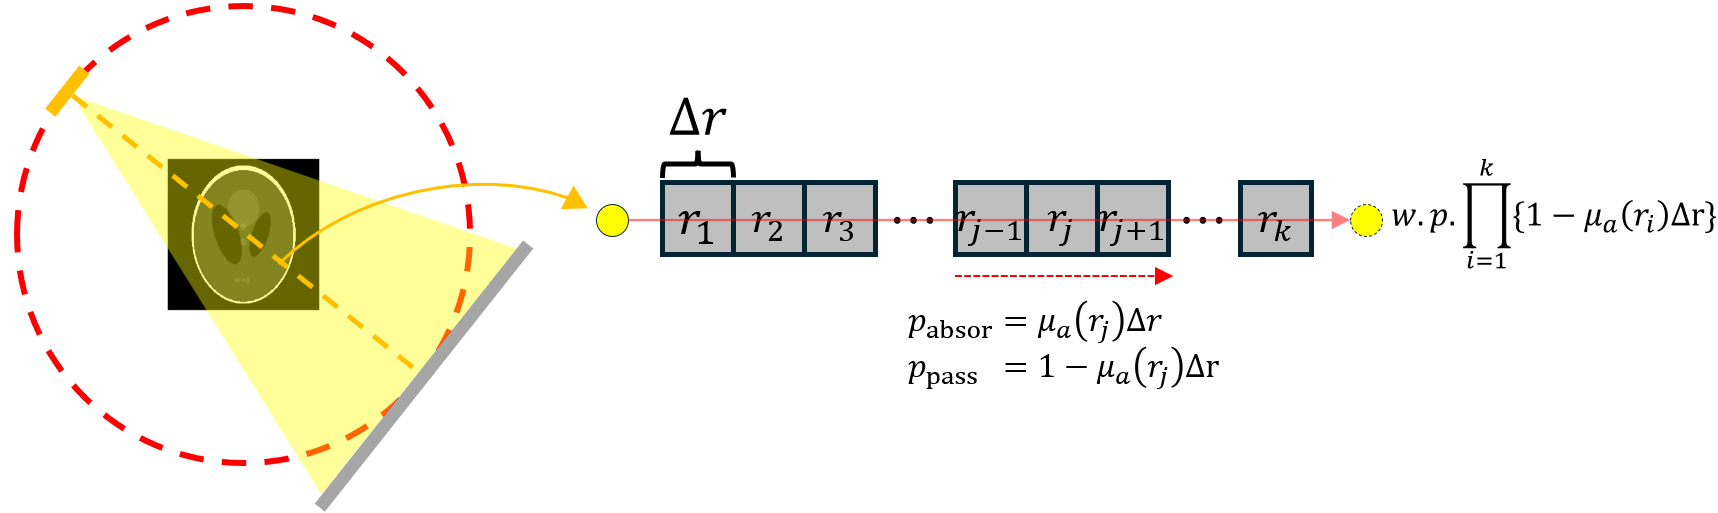
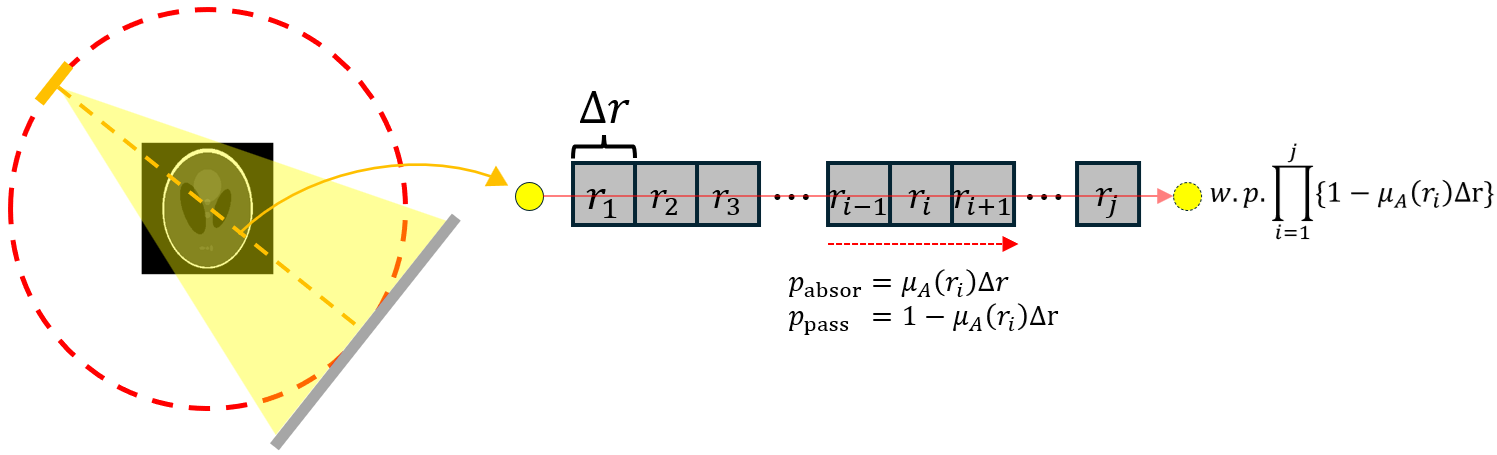
CT_4 revision

diff --git a/_posts/2025-06-30-CT_4.md b/_posts/2025-06-30-CT_4.md
@@ -24,6 +24,7 @@ $\bullet$ Computed Tomography: From Photon Statistics to Modern Cone-Beam CT
 {: .notice--success}
 
 # 0.Introduction
+{% include start-box.html class="math-box"%}
 We will discuss the probability of detection (Mathematical modeling of photon-detection).
 More specifically, we will focus on the probability that a photon, from the moment it is generated by the X-ray source, passes through an object, and is finally detected.
 
@@ -31,7 +32,7 @@ More specifically, we will focus on the probability that a photon, from the mome
 
 As shown in the overview diagram above, which illustrates the entire CT scan and reconstruction workflow, this corresponds to the process indicated by the three orange circles in the first figure.
 
-It is important to note that for this discussion, **we will assume the X-ray source is monochromatic**, meaning it emits photons of a single energy level.
+It is important to note that for this discussion, **we will assume the X-ray source is monoenergetic**, meaning it emits photons of a single energy level.
 Consequently, the LAC, which was previously expressed as a function of both the spatial parameter, r and energy E, $\mu(r,E)$, now simplifies to a function dependent only on the spatial parameter, r:
 
 <div class="math-box">
@@ -39,8 +40,10 @@ $$
 \mu(r, E) \rightarrow \mu(r)
 $$
 </div>
+{% include end-box.html %}
 
 # 1.Mathematical modeling for monochromatic X-ray
+{% include start-box.html class="math-box"%}
 
 ## 1-1) Probability for X-ray photon generation
 {% include start-side-by-side.html
@@ -48,8 +51,7 @@ $$
   image_alt=""
   image_width="30%"
 %}
-Let's mathematically model the generation of photons from an X-ray source. (Monochromatic!)<br>
-This corresponds to the process occurring in the area marked by the orange circle in the left figure.<br><br>
+Let's mathematically model the generation of photons from an X-ray source (Monoenergetic!). This corresponds to the process occurring in the area marked by the orange circle in the left figure.
 {% include end-side-by-side.html %}
 
 <div class="math-box" markdown="1">
@@ -57,11 +59,14 @@ This corresponds to the process occurring in the area marked by the orange circl
 
 2. Let the random variable $X$ be the number of successful X-ray photon generations from these $N$ electrons.
 
-3. Under these conditions, the probability of generating exactly $n$ photons from $N$ electrons, $P(X = n)$, follows a binomial distribution:<br><center>$$P(X = n) = \binom{N}{n} p_{1}^n (1 - p_1)^{N - n} \tag{1.1}$$</center>
+3. Under these conditions, the probability of generating exactly $n$ photons from $N$ electrons, $P(X = n)$, follows a binomial distribution:
 
-4. In a realistic scenario, the number of electrons $N$ is extremely large ($N \rightarrow \infty$) while the probability of success $p_1$ is very small ($p_1 \rightarrow 0$). <br>If their product, the expected value $E(X)=N\cdot p_1=N_0$, remains constant, this binomial distribution can be approximated by a Poisson distribution:<br>
-<center>$$P(X = n) = \lim\limits_{N \to \infty, p_1 \to 0} \binom{N}{n} p_{1}^n (1 - p_{1})^{N - n} = \frac{e^{-N_0} N_0^n}{n!} \tag{1.2}$$</center>
-<br>
+    $$P(X = n) = \binom{N}{n} p_{1}^n (1 - p_1)^{N - n} \tag{1.1}$$
+
+4. In a realistic scenario, the number of electrons $N$ is extremely large ($N \rightarrow \infty$) while the probability of success $p_1$ is very small ($p_1 \rightarrow 0$). If their product, the expected number of photons, $E(X)=N\cdot p_1=N_0$, remains constant, this binomial distribution can be approximated by a Poisson distribution:
+
+    $$P(X = n) = \lim\limits_{N \to \infty, p_1 \to 0} \binom{N}{n} p_{1}^n (1 - p_{1})^{N - n} = \frac{e^{-N_0} N_0^n}{n!} \tag{1.2}$$
+
 Here, $N_0$ is the expected average number of X-ray photons to be generated (a value often provided in reference data or by the manufacturer).
 </div>
 
@@ -71,30 +76,62 @@ Here, $N_0$ is the expected average number of X-ray photons to be generated (a v
   image_alt=""
   image_width="30%"
 %}
-Let's create a mathematical model for the probability of an X-ray photon passing through an object.<br><br>
+Let's create a mathematical model for the probability of an X-ray photon passing through an object.
 {% include end-side-by-side.html %}
 
 {% include start-box.html class="math-box" %}
 1. Given that $n$ photons are generated at the source, our goal is to find the probability that $M$ of them will successfully transmit through the object. To do this, we will first derive the probability for a single photon and then extend it to $M$ photons.
 
-2. As shown in the figure below, let's consider a single, continuous object as a series of many small, discrete objects $(r_1, r_2, \dots, r_j)$. The length of each small object is denoted by $\Delta r$. <img src="../images/2025-06-30-CT_4/image-20250703202028737.png" style="width: 80%; height: auto;">{: .align-center} For an infinitesimally small segment $\Delta r$, the probability that a single photon is absorbed as it travels from segment $i-1$ to $i$ is approximately $\mu_a(r_i)\Delta r$*. Therefore, the probability that the photon is not absorbed and successfully passes from segment $i-1$ to $i$ is approximately $1-\mu_a (r_i) \Delta r$.<br> <center>$$\begin{array}{l} p_{\text{absor}} = \mu_a(r_i)\Delta r \\ p_{\text{pass}}=1-\mu_a(r_i)\Delta r \end{array} \tag{1.3}$$</center>
+2. As shown in the figure below, let's consider a single, continuous object as a series of many small, discrete objects $(r_1, r_2, \dots, r_j)$. The length of each small object is denoted by $\Delta r$. <img src="../images/2025-06-30-CT_4/image-20250703202028737.png" style="width: 80%; height: auto;">{: .align-center} For an infinitesimally small segment $\Delta r$, the probability that a single photon is absorbed as it travels $i$-th segment is approximately $\mu_A(r_i)\Delta r$. Therefore, the probability that the photon is not absorbed and successfully passes $i$-th segment is approximately $1-\mu_A (r_i) \Delta r$.
 
-3. Consequently, the probability that a photon passes through all $j$ segments without being absorbed is the product of the individual probabilities:<br> <center>$$\text{Probability for a photon will transmit the object, p}_2 = \prod_{i=1}^{j} \left\{ 1 - \mu_a(\mathbf{r}_i) \Delta \mathbf{r} \right\} \tag{1.4}$$</center>
+    $$\begin{array}{l} p_{\text{absor}} = \mu_A(r_i)\Delta r \\ p_{\text{pass}}=1-\mu_A(r_i)\Delta r \end{array} \tag{1.3}$$
 
-4. Now, we can simplify this expression by making the object segments infinitesimally small and infinitely numerous ($j \rightarrow \infty, \Delta r \rightarrow 0$). <br> The probability $p_2$ that a photon transmits through the object becomes: <br> <center>$$\begin{split} p_2 &= \lim\limits_{j \to \infty, \Delta \mathbf{r} \to 0} \prod_{i=1}^{j} \left\{ 1 -\mu_a(\mathbf{r}_i) \Delta \mathbf{r} \right\} = \lim\limits_{j \to \infty, \Delta \mathbf{r} \to 0} e^{\left\{ \ln \left( \prod_{i=1}^{j} \left\{ 1 - \mu_a(\mathbf{r}_i) \Delta \mathbf{r} \right\} \right) \right\}} \\ \\
-&= \lim\limits_{j \to \infty, \Delta \mathbf{r} \to 0} e^{\left\{ \sum\limits_{i=1}^{j} \ln \left( 1 - \mu_a(\mathbf{r}_i) \Delta \mathbf{r} \right) \right\}} \\ \\ &\bigg\downarrow \small{\left(\lim\limits_{x \to 0}\frac{\ln(1+x)}{x} = 1 \rightarrow \lim\limits_{x \to 0} \ln(1+x) = x \right) }\\ \\
-& = \lim\limits_{j \to \infty, \Delta \mathbf{r} \to 0} e^{\left\{ \sum_{i=1}^{j} \left( -\mu_a(\mathbf{r}_i) \Delta \mathbf{r} \right) \right\}} = e^{-\int \mu_a(\mathbf{r}) \, dr }\end{split} \tag{1.5}$$</center> This equation is the **Beer-Lambert law**, describing the intensity attenuation of a radiation beam traversing a macroscopically homogeneous medium.
+3. Consequently, the probability that a photon passes through all $j$ segments without being absorbed is the product of the individual probabilities:<br> <center>$$\text{Probability for a photon will transmit the object, p}_2 = \prod_{i=1}^{j} \left\{ 1 - \mu_A(\mathbf{r}_i) \Delta \mathbf{r} \right\} \tag{1.4}$$</center>
 
-5. Then, let's consider the number of photons that are pass the object. Let $Y$ be the random variable for the number of transmitted photons, given that $X=n$ photons were incident on the object. Since each of the $n$ photons has an independent transmission probability of $p_2$, the number of successfully transmitted photons $Y$ follows a binomial distribution, conditioned on $X=n$:<br><center>$$\small{P(Y=M\mid X=n)=\binom{n}{M}p_2^M (1-p_2)^{n-M}, \quad \text{for } M \le n} \tag{1.6}$$</center>
+4. Now, we can simplify this expression by making the object segments infinitesimally small and infinitely numerous ($j \rightarrow \infty, \Delta r \rightarrow 0$). <br> The probability $p_2$ that a photon transmits through the object becomes: 
 
- {% include start-box.html class="math-box-inner" font_size="0.8em" %}
- *Why $p_{\text{absor}} \approx \mu_a(r_j)\Delta r$?
- 1. We assume that when an X-ray photon travels through a material, its probability of interacting (being absorbed or scattered) within an infinitesimally small distance $dx$ is proportional to that length. We define this proportionality constant as the LAC, $\mu_a(x)$. <br><center>$P_{(\text{interaction in infinitesimal length $dx$})}=\mu_a(x) dx$</center><center>$\small{\text{(Assume that the probabilities of interaction in any two non-overlapping intervals are independent.)}}$</center>
+    $$\begin{split} p_2 &= \lim\limits_{j \to \infty, \Delta \mathbf{r} \to 0} \prod_{i=1}^{j} \left\{ 1 -\mu_A(\mathbf{r}_i) \Delta \mathbf{r} \right\} = \lim\limits_{j \to \infty, \Delta \mathbf{r} \to 0} e^{\left\{ \ln \left( \prod\limits_{i=1}^{j} \left\{ 1 - \mu_A(\mathbf{r}_i) \Delta \mathbf{r} \right\} \right) \right\}} \\ \\
+    &= \lim\limits_{j \to \infty, \Delta \mathbf{r} \to 0} e^{\left\{ \sum\limits_{i=1}^{j} \ln \left( 1 - \mu_A(\mathbf{r}_i) \Delta \mathbf{r} \right) \right\}} \\ \\ &\bigg\downarrow \small{\left(\lim\limits_{x \to 0}\frac{\ln(1+x)}{x} = 1 \rightarrow \lim\limits_{x \to 0} \ln(1+x) = x \right) }\\ \\
+    & = \lim\limits_{j \to \infty, \Delta \mathbf{r} \to 0} e^{\left\{ \sum\limits_{i=1}^{j} \left( -\mu_A(\mathbf{r}_i) \Delta \mathbf{r} \right) \right\}} = e^{-\int \mu_A(\mathbf{r}) \, dr }\end{split} \tag{1.5}$$
 
- 2. Let $P(x)$ be the probability that a photon reaches position $x$ without interacting. Then, the probability of surviving up to position $x+dx$, denoted as $P(x+dx)$, can be seen as two consecutive events:<br><center>$$\begin{array}{l}1)\text{Surviving up to position } x \text{(with probability: $P(x)$)} \\ 2)\text{Then surviving the subsequent small interval } [x+dx] \text{ with probability: $1-\mu_a(x)dx$} \\ \\ \rightarrow P(x+dx) = P(x)\cdot (1-\mu_a(x)dx) \\ \rightarrow P(x+dx) - P(x) = -P(x) \mu_a(x) dx \\ \rightarrow \frac{P(x+dx) - P(x)}{dx} = -P(x) \mu_a(x) \\ \xrightarrow[]{dx \to 0} \frac{dP(x)}{dx} = - \mu_a(x) P(x) \\ \end{array}$$</center>
+    This equation is the **Beer-Lambert law**, describing the intensity attenuation of a radiation beam traversing a macroscopically homogeneous medium.
 
- 3. This differential equation can be solved using the method of separation of variables.<br><center>$$\frac{1}{P(x)} dP(x) = - \mu_a(x) dx$$</center>Integrate both sides (from the starting point 0 to a distance L):<center>$$\begin{align} \int_{P(0)}^{P(L)} \frac{1}{P} dP &= \int_0^L -\mu_a(x) dx \\ [\ln P]_ {P(0)}^{P(L)} &= -\int_0^L \mu_a(x) dx \\ \ln P(L) - \ln P(0) &= -\int_0^L \mu_a(x) dx \end{align}$$</center>Before the photon enters the material (at $x=0$), its survival probability is 1. $\rightarrow P(0)=1$
- Thus, the survival probability $P(L)$ after traveling a distance L is:<br><center>$$\begin{align}\ln P(L) &= -\int_0^L \mu_a(x) dx \\ P(L) &= e^{-\int_0^L \mu_a(x) dx} \end{align}$$</center>If the material is homogeneous (i.e, $\mu_a(x)$ is a constant, $\mu_a$) and the distance is $\Delta r$, this equation simplifies to: <center>$$\begin{align} P_{\text{pass}}(\Delta r) &= e^{-\mu_a \Delta r} \\ P_{\text{absor}}(\Delta r) &= 1 - e^{-\mu_a \Delta r} \end{align}$$</center>When $\Delta r$ becomes infinitesimal, this equation becomes ($$ x \approx 0 \to e^{-x} \approx 1 -x $$):<be><center>$$\begin{align} P_{\text{pass}}(\Delta r) &\approx 1 - \mu_a \Delta r \\ P_{\text{absor}}(\Delta r) &\approx \mu_a \Delta r \end{align}$$</center> 
+5. Then, let's consider the number of photons that are pass the object. Let $Y$ be the random variable for the number of transmitted photons, given that $X=n$ photons were incident on the object. Since each of the $n$ photons has an independent transmission probability of $p_2$, the number of successfully transmitted photons $Y$ follows a binomial distribution, conditioned on $X=n$:
+
+    $$\small{P(Y=M\mid X=n)=\binom{n}{M}p_2^M (1-p_2)^{n-M}, \quad \text{for } M \le n} \tag{1.6}$$
+
+{% include start-box.html class="math-box-inner" font_size="0.8em"%}
+ *Why $p_{\text{absor}} \approx \mu_A(r_j)\Delta r$?
+ 1. We assume that when an X-ray photon travels through a material, its probability of interacting (being absorbed or scattered) within an infinitesimally small distance $dx$ is proportional to that length. We define this proportionality constant as the LAC, $\mu_A(x)$. 
+ 
+    $$P_{(\text{interaction in infinitesimal length $dx$})}=\mu_A(x) dx$$ 
+    
+    $$\small{\text{(Assume that the probabilities of interaction in any two non-overlapping intervals are independent.)}}$$
+
+ 2. Let $P(x)$ be the probability that a photon reaches position $x$ without interacting. Then, the probability of surviving up to position $x+dx$, denoted as $P(x+dx)$, can be seen as two consecutive events:
+ 
+    $$\begin{array}{l}1)\text{Surviving up to position } x \text{(with probability: $P(x)$)} \\ \\ 2)\text{Then surviving the subsequent small interval } [x+dx] \text{ with probability: $1-\mu_A(x)dx$} \\ \\ \quad \rightarrow P(x+dx) = P(x)\cdot (1-\mu_A(x)dx) \\ \quad \rightarrow P(x+dx) - P(x) = -P(x) \mu_A(x) dx \\ \quad \quad \rightarrow \frac{P(x+dx) - P(x)}{dx} = -P(x) \mu_A(x) \\ \quad \quad \quad \xrightarrow[]{dx \to 0} \frac{dP(x)}{dx} = - P(x) \mu_A(x) \\ \end{array}$$
+
+ 3. This differential equation can be solved using the method of separation of variables.
+ 
+    $$\frac{1}{P(x)} dP(x) = - \mu_A(x) dx$$
+    
+    Integrate both sides (from the starting point $x$=0 to a distance $x$=L):
+    
+    $$\begin{align} \int_{0}^{L} \left( \frac{1}{P(x)} \frac{dP(x)}{dx} \right) dx &= \int_{0}^{L} -\mu_A(x) dx \\ &\bigg\downarrow \text{Let $P=P(x)$} \\ \int_{P(0)}^{P(L)} \frac{1}{P} dP &= \int_0^L -\mu_A(x) dx \\ [\ln P]_ {P(0)}^{P(L)} &= -\int_0^L \mu_A(x) dx \\ \ln P(L) - \ln P(0) &= -\int_0^L \mu_A(x) dx \end{align}$$
+    
+    Before the photon enters the material (at $x=0$), its survival probability is 1 ($P(0)=1$). Thus, the survival probability $P(L)$ after traveling a distance L is:
+    
+    $$\begin{align}\ln P(L) &= -\int_0^L \mu_A(x) dx \\ P(L) &= e^{-\int_0^L \mu_A(x) dx} \end{align}$$
+    
+    If the material is homogeneous (i.e, $\mu_A(x)$ is a constant, $\mu_A$) and the distance is $\Delta r$, this equation simplifies to:
+    
+    $$\begin{align} P_{\text{pass}}(\Delta r) &= e^{-\mu_A \Delta r} \\ P_{\text{absor}}(\Delta r) &= 1 - e^{-\mu_A \Delta r} \end{align}$$
+    
+    When $\Delta r$ becomes infinitesimal, this equation becomes ($$ x \approx 0 \to e^{-x} \approx 1 -x $$):
+    
+    $$\begin{align} P_{\text{pass}}(\Delta r) &\approx 1 - \mu_A \Delta r \\ P_{\text{absor}}(\Delta r) &\approx \mu_A \Delta r \end{align}$$
+
     {% include end-box.html %}
   {% include end-box.html %}
 
@@ -104,42 +141,82 @@ Let's create a mathematical model for the probability of an X-ray photon passing
   image_alt=""
   image_width="30%"
 %}
-Now, let's model what happens when the photons reach the detector.<br><br>
+Now, let's model what happens when the photons reach the detector.
 {% include end-side-by-side.html %}
 
 {% include start-box.html class="math-box" %}
-1. The photons that have successfully passed through the object are the ones that are incident on the detector. Therefore, the random variable for the number of photons arriving at the detector is the same as the random variable for the number of transmitted photons, which we have already defined as $Y$. <br>(We assume no photons are lost between the object and the detector.)
+1. The photons that have successfully passed through the object are the ones that are incident on the detector. Therefore, the random variable for the number of photons arriving at the detector is the same as the random variable for the number of transmitted photons, which we have already defined as $Y=M$. (We assume no photons are lost between the object and the detector.)
 
 2. Each of these $M$ incident photons is then registered by the detector with a certain probability, $q$, known as the detector's quantum efficiency. This efficiency accounts for the fact that not every photon hitting the detector will produce a measurable electronic signal.
 
-3. Let $Z$ be the random variable for the number of photons finally registered by the detector. Given that $Y=M$ photons arrive at the detector, the detection of each photon is an independent Bernoulli trial with success probability $q$. Thus, the number of registered photons, $Z$, follows a binomial distribution, conditioned on the number of arriving photons, $M$:<br><center>$$\small{P(Z=m\mid Y=M)=\binom{M}{m}q^m (1-q)^{M-m}, \quad \text{for $m \le M$}} \tag{1.7}$$</center>
+3. Let $Z$ be the random variable for the number of photons finally registered by the detector. Given that $Y=M$ photons arrive at the detector, the detection of each photon is an independent Bernoulli trial with success probability $q$. Thus, the number of registered photons, $Z$, follows a binomial distribution, conditioned on the number of arriving photons, $M$:
 
-4. To find the unconditional probability distribution of the detected photons, $P(Z=m)$, we need to consider the entire chain of events. A remarkable property of cascaded Poisson and binomial processes is that the final distribution is also a Poisson distribution. The expected number of detected photons, $E[Z]$, can be found using the law of total expectation:<br><center>$$\small{E[Z]=E_Y [E_Z [Z\mid Y]] = E_Y[Y \cdot q] = q \cdot E_Y[Y]} \tag{1.8}$$</center>Similarly, <br><center>$$\small{E[Y] = E_X[E_Y [Y\mid X]] = E_X[X \cdot p_2]=p_2 \cdot E_X[X] = p_2 \cdot N_0} \tag{1.9}$$</center>Combining these, the expected number of detected photons is:<br><center>$$\small{\lambda_{det} = E[Z]=N_0 \cdot p_2 \cdot q} \tag{1.10}$$</center>Since the initial process is Poisson and it undergoes two independent binomial thinnings (transmission and detection), the resulting random variable $Z$ also follows a Poisson distribution with the new mean $\lambda_{det}$. Therefore, the final probability of detecting exactly $m$ photons is given by:<br><center>$$\small{P(Z=m)=\frac{e^{-N_0 p_2 q}(N_0 p_2 q)^m}{m!}, \quad \text{where  } \begin{array}{l} N_0: \text{the mean of incident photons} \\ p_2 = e^{-\int \mu_a(r)dr} \text{: the transmission probability} \\ q: \text{the detector quantum efficiency} \end{array}} \tag{1.11}$$</center>
+    $$\small{P(Z=m\mid Y=M)=\binom{M}{m}q^m (1-q)^{M-m}, \quad \text{for $m \le M$}} \tag{1.7}$$
 
- {% include start-box.html class="math-box-inner" font_size="0.8em" %}
- *$E[Z]=E_Y [E_Z [Z \mid Y]] = E_Y[Y \cdot q] = q \cdot E_Y[Y]$
- 1. $E_Z[Z \mid Y]$: This term asks, "Given that the value of $Y$ is a specific value $M$ (i.e., $Y=M$), what is the conditional expectation of $Z$?" <br>As shown before, $P(Z=m\mid Y=M)$ follows a binomial distribution with parameters $(M, q)$. <br>The expected value of this distribution is $M \cdot q$.<br><center>$$\rightarrow E_Z[Z \mid Y=M] = M \cdot q$$</center>
+4. To find the unconditional probability distribution of the detected photons, $P(Z=m)$, we need to consider the entire chain of events. A remarkable property of cascaded Poisson and binomial processes is that the final distribution is also a Poisson distribution. The expected number of detected photons, $E[Z]$, can be found using the law of total expectation:
 
- 2. If we write this for the general random variable $Y$, this expectation changes depending on the value of $Y$. <br> Thus, $E_Z[Z \mid Y] = Y \cdot q$ becomes a new random variable itself, which is a function of $Y$.
+    $$\small{E[Z]=E [E [Z\mid Y]] = E[Y \cdot q] = q \cdot E[Y]} \tag{1.8}$$
 
- 3. $E_Y[E_Z[Z \mid Y]]$: It means taking the expectation of the new random variable we just found, $Y \cdot q$, with respect to the probability distribution of $Y$.<br><center>$$E_Y [Y \cdot q] = q \cdot E_Y[Y]$$</center>
+    Similarly, 
 
- 4. As a result, <br><center>$$E[Z]=E_Y [E_Z [Z \mid Y]] = E_Y[Y \cdot q] = q \cdot E_Y[Y]$$</center>
- {% include end-box.html %}
+    $$\small{E[Y] = E[E [Y\mid X]] = E[X \cdot p_2]=p_2 \cdot E[X] = p_2 \cdot N_0} \tag{1.9}$$
 
- {% include start-box.html class="math-box-inner" font_size="0.8em" %}
- **$E[Y] = E_X[E_Y [Y\mid X]] = E_X[X \cdot p_2]=p_2 \cdot E_X[X] = p_2 \cdot N_0$
- 1. $E_Y[Y \mid X]$: This term asks, "Given that the value of $X$ is a specific value $n$ (i.e., $X=n$), what is the conditional expectation of $Y$?"<br>As shown before, $P(Y=M \mid X=n)$ follows a binomial distribution with parameters $(n, p_2)$.<br>The expected value of a binomial distribution with n trials and a success probability of $p_2$ is $n \cdot p_2$.<br><center>$$\rightarrow E_Y[Y \mid X=n] = n \cdot p_2$$</center>
+    Combining these, the expected number of detected photons, $\lambda_{det}$ is:
 
- 2. Writing this for the general random variable $X$, $E_Y[Y \mid X] = X \cdot p_2$ becomes a new random variable that is a function of $X$.
+    $$\small{\lambda_{det} = E[Z]=N_0 \cdot p_2 \cdot q} \tag{1.10}$$
 
- 3. $E_X[E_Y[Y \mid X]]$: It involves taking the expectation of the new random variable $X \cdot p_2$ with respect to the probability distribution of $X$.<br><center>$E_X[X \cdot p_2] = p_2 \cdot E_X[X]$</center>
+    Since the X-ray generation follows Poisson and it undergoes two independent binomial thinnings (transmission and detection), the resulting random variable $Z$ also follows a Poisson distribution with the new mean $\lambda_{det}$. Therefore, the final probability of detecting exactly $m$ photons is given by:
 
- 4. As a result,<br><center>$$ E_Y[Y] = E_X[E_Y[Y \mid X]] = E_X[X \cdot p_2] = p_2 \cdot E_X[X] $$</center>
- {% include end-box.html %}
+    $$\small{P(Z=m)=\frac{e^{-\lambda_{det}}(\lambda_{det})^m}{m!}, \quad \text{where  } \begin{array}{l} \lambda_{det}: \text{the expected number of detected photons} \\ N_0: \text{the mean of incident photons} \\ p_2 = e^{-\int \mu_A(r)dr} \text{: the transmission probability} \\ q: \text{the detector quantum efficiency} \end{array}} \tag{1.11}$$
+
+{% include start-box.html class="math-box-inner" font_size="0.8em" %}
+*$E[Z]=E[E[Z \mid Y]] = E[Y \cdot q] = q \cdot E[Y]$
+1. $E[Z \mid Y]$: This term asks, "Given that the value of $Y$ is a specific value $M$ (i.e., $Y=M$), what is the conditional expectation of $Z$?" 
+
+    As shown before, $P(Z=m\mid Y=M)$ follows a binomial distribution with parameters $(M, q)$. 
+ 
+    The expected value of this distribution is $M \cdot q$.
+ 
+    $$E[Z \mid Y=M] = M \cdot q$$
+
+2. If we write this for the general random variable $Y$, this expectation changes depending on the value of $Y$. Thus, $E[Z \mid Y] = Y \cdot q$ becomes a new random variable itself, which is a function of $Y$.
+
+3. $E[E[Z \mid Y]]$: It means taking the expectation of the new random variable we just found, $Y \cdot q$, with respect to the probability distribution of $Y$.
+
+    $$E[Y \cdot q] = q \cdot E[Y]$$
+
+4. As a result, 
+
+    $$E[Z]=E[E[Z \mid Y]] = E[Y \cdot q] = q \cdot E[Y]$$
+
+{% include end-box.html %}
+
+{% include start-box.html class="math-box-inner" font_size="0.8em" %}
+**$E[Y] = E[E [Y\mid X]] = E[X \cdot p_2]=p_2 \cdot E[X] = p_2 \cdot N_0$
+1. $E[Y \mid X]$: This term asks, "Given that the value of $X$ is a specific value $n$ (i.e., $X=n$), what is the conditional expectation of $Y$?"
+
+    As shown before, $P(Y=M \mid X=n)$ follows a binomial distribution with parameters $(n, p_2)$.
+
+    The expected value of a binomial distribution with $n$ trials and a success probability of $p_2$ is $n \cdot p_2$.
+
+    $$E[Y \mid X=n] = n \cdot p_2$$
+
+2. Writing this for the general random variable $X$, $E[Y \mid X] = X \cdot p_2$ becomes a new random variable that is a function of $X$.
+
+3. $E[E[Y \mid X]]$: It involves taking the expectation of the new random variable $X \cdot p_2$ with respect to the probability distribution of $X$.
+
+    $$E[X \cdot p_2] = p_2 \cdot E[X]$$
+
+4. As a result,
+
+$$ E[Y] = E[E[Y \mid X]] = E[X \cdot p_2] = p_2 \cdot E[X] $$
+
+{% include end-box.html %}
+{% include end-box.html %}
 {% include end-box.html %}
 
 # 2. Mathematical modeling for polychromatic X-ray
+{% include start-box.html class="math-box"%}
 Building upon the previous mathematical model, let's now examine the modeling for a polychromatic X-ray spectrum.<br> 
 (For this discussion, we will assume a detector efficiency of $\textbf{q=1}$.)
 
@@ -147,7 +224,7 @@ Building upon the previous mathematical model, let's now examine the modeling fo
 Since we assumed a detector efficiency of $q=1$, the number of photons reaching the detector is equal to the number of photons that transmitted through the object. For a monochromatic X-ray beam, the number of transmitted photons is given by equation (1.10) as:
 
 <div class="math-box" markdown="1">
-<center>$$\lambda_{det} = N_0\cdot p_2 = N_0 e^{-\int \mu_a(r)dr} \tag{2.1}$$</center>
+<center>$$\lambda_{det} = N_0\cdot p_2 = N_0 e^{-\int \mu_A(r)dr} \tag{2.1}$$</center>
 </div>
 
 This equation was calculated under the assumption that all $N_0$ generated photons have a specific, constant energy $E'$. The extension from the monoenergetic model to the polychromatic model begins here. A real polychromatic X-ray beam has photons with various energies, and the proportion of photons generated differs for each energy. This must be reflected in equation (2.1).
@@ -169,15 +246,15 @@ The graph $S_0$ above is a discretized representation of the normalized X-ray in
 Therefore, using the spectrum $S_0$, we can extend equation (2.1) as follows:
 
 <div class="math-box" markdown="1">
-<center>$$\lambda_{det}(E_j) = N_0S_0(E_j) e^{-\int \mu_a(r, E_j)dr} \tag{2.2}$$</center>
+<center>$$\lambda_{det}(E_j) = N_0S_0(E_j) e^{-\int \mu_A(r, E_j)dr} \tag{2.2}$$</center>
 </div>
 
 In the polychromatic case, the expected number of photons for each discretized energy level $E_j$ is not $N_0$ but rather $N_0 S_0(E_j)$.
-Additionally, we can see that the LAC is also updated to $ \mu_a (r, E_j) $ to account for its energy dependence.
+Additionally, we can see that the LAC is also updated to $ \mu_A (r, E_j) $ to account for its energy dependence.
 
 
 ## 2-2) Number of tranmitted photons in polychromatic X-ray
-Let $Y_j$ be the number of photons with energy $E_j$ that transmit through the object. As we established earlier, this process can be modeled as a binomial distribution. However, given that the number of incident photons ($N_0 S_0(E_j)$) is extremely large and the transmission probability is often very small, we can approximate this with a Poisson distribution. Therefore, $Y_j$ follows a Poisson distribution with the parameter $\lambda(E_j) = N_0 S_0(E_j)e^{-\int \mu_a (r, E_j)dr}$.<br>
+Let $Y_j$ be the number of photons with energy $E_j$ that transmit through the object. As we established earlier, this process can be modeled as a binomial distribution. However, given that the number of incident photons ($N_0 S_0(E_j)$) is extremely large and the transmission probability is often very small, we can approximate this with a Poisson distribution. Therefore, $Y_j$ follows a Poisson distribution with the parameter $\lambda(E_j) = N_0 S_0(E_j)e^{-\int \mu_A (r, E_j)dr}$.<br>
 The total number of transmitted photons, $Y$, is the sum of photons from all energy bins:
 
 <div class="math-box" markdown="1">
@@ -187,15 +264,15 @@ The total number of transmitted photons, $Y$, is the sum of photons from all ene
 Since each $Y_j$ is an independent Poisson random variable, their sum, $Y$, also follows a Poisson distribution. The parameter $\lambda$ for $Y$ is the sum of the individual parameters:
 
 <div class="math-box" markdown="1">
-<center>$$\lambda = \sum_{j=1}^{N} \lambda(E_j)= \sum_{j=1}^{N} N_0 S_0(E_j)e^{-\int \mu_a (r, E_j)dr} \tag{2.4}$$</center>
+<center>$$\lambda = \sum_{j=1}^{N} \lambda(E_j)= \sum_{j=1}^{N} N_0 S_0(E_j)e^{-\int \mu_A (r, E_j)dr} \tag{2.4}$$</center>
 </div>
 
 This sum represents the expected number of transmitted photons for a discretized spectrum. To model the truly continuous case, we take the limit as the energy interval $\Delta E$ approaches zero. This transforms the summation into an integral, giving us the mean number of transmitted photons for the polychromatic beam:
 
 <div class="math-box" markdown="1">
-<center>$$\lambda = \int N_0 S_0(E) e^{-\int \mu_a(\mathbf{r}, E) d\mathbf{r}} dE \tag{2.5}$$</center>
+<center>$$\lambda = \int N_0 S_0(E) e^{-\int \mu_A(\mathbf{r}, E) d\mathbf{r}} dE \tag{2.5}$$</center>
 </div>
-
+{% include end-box.html %}
 
 
 
